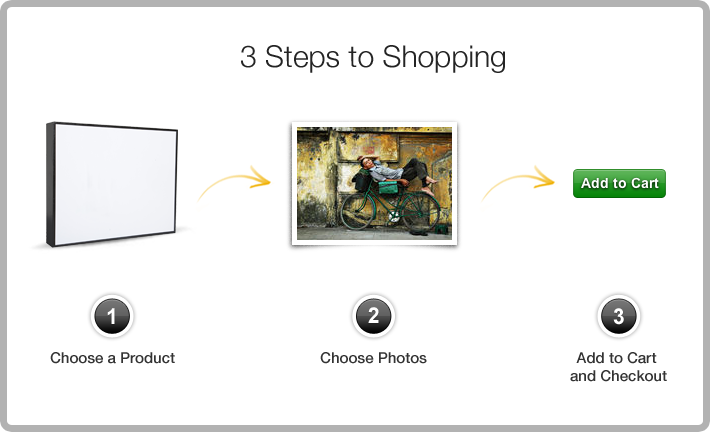
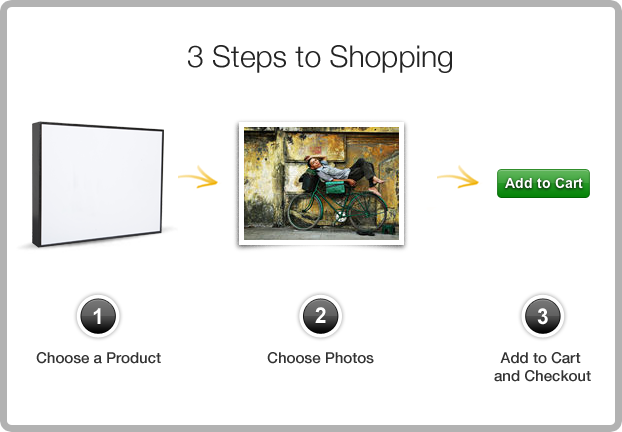
smaller 1,2,3 image; new glamour page

diff --git a/public/stylesheets/buy.css b/public/stylesheets/buy.css
@@ -525,8 +525,8 @@
 
 .buy-drawer-scrim .dialog {
     position: absolute;
-    height: 500px;
-    width: 710px;
+    height: 432px;
+    width: 622px;
     top: 125px;
     background: url(/images/buy/three-steps-to-buy.png) no-repeat scroll 0px 0px transparent;
 }
@@ -555,8 +555,8 @@
 
 
 .glamour-page .product-image img{
-width: 370px;
-height: 375px;
+    width: 375px;
+    height: 375px;
 }
 
 .glamour-page .product-name{
